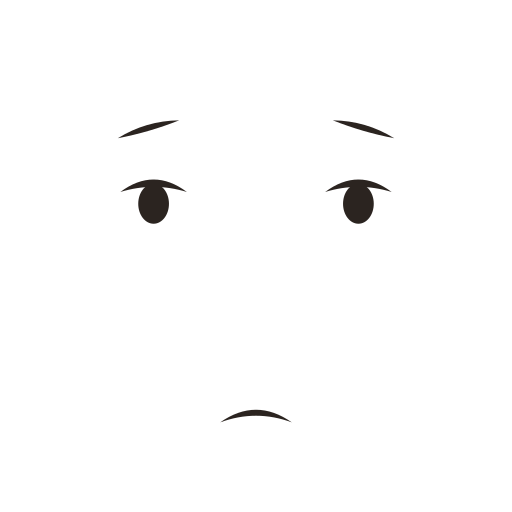
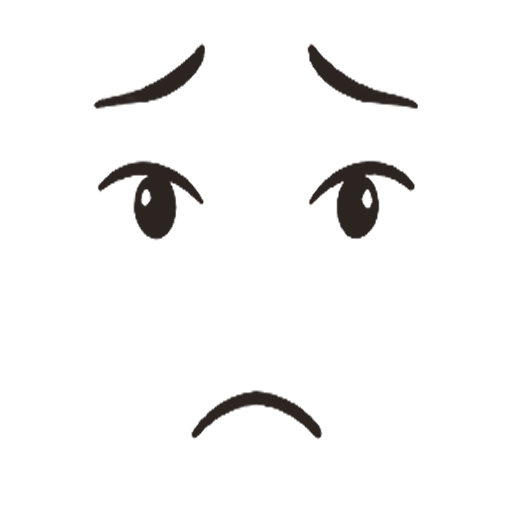
feat(figures): face decals from a Figma gpt-image-2.5 sheet (History Lines ink), cut + aligned to the projector grid by faces_from_sheet.py; hand-drawn SVG generator removed

diff --git a/engine-mvp/src/figures/faces_from_sheet.py b/engine-mvp/src/figures/faces_from_sheet.py
@@ -1,0 +1,62 @@
+"""Cut the 8 expression decals from the generated face sheet (Figma generate_image, gpt-image-2.5-sunburst,
+4 x 2 cells on white; the sheet lives in ~/BartsMedia/historyportal/topics/autonomous-lessons/s3-figures/faces/).
+
+Each cell: white keyed to alpha, the two pupils found as the darkest blobs, the mouth as the ink below them; then
+an affine fit puts the pupils at (30%, 38%) and (70%, 38%) and the mouth at (50%, 80%) of a 512 px square: the
+layout the head-bone projector expects (figure.ts FACE). Only alpha is used (the shader inks with its own colour).
+
+Run: python3 -I src/figures/faces_from_sheet.py <sheet.png> public/figures/faces/
+"""
+import sys
+
+import numpy as np
+from PIL import Image
+from scipy import ndimage
+
+NAMES = ["neutral", "happy", "worried", "surprised", "sad", "angry", "proud", "tired"]
+OUT = 512
+EYE_L, EYE_R, MOUTH = (0.30, 0.38), (0.70, 0.38), (0.50, 0.80)
+INK = (43, 36, 32)
+
+
+def cut(cell: np.ndarray) -> Image.Image:
+    grey = cell.mean(axis=2)
+    alpha = np.clip((238.0 - grey) / 150.0, 0, 1)
+    lab, n = ndimage.label(grey < 90)
+    sizes = ndimage.sum(np.ones_like(grey), lab, range(1, n + 1))
+    if n < 2:
+        raise SystemExit("cell without two pupils")
+    pupils = sorted(np.argsort(sizes)[-2:] + 1, key=lambda i: ndimage.center_of_mass(grey < 90, lab, i)[1])
+    (ly, lx), (ry, rx) = (ndimage.center_of_mass(grey < 90, lab, i) for i in pupils)
+    eye_y = (ly + ry) / 2
+    below = alpha.copy()
+    below[: int(eye_y + 0.22 * (rx - lx) + 10)] = 0  # skip the lower lids
+    ys, xs = np.nonzero(below > 0.3)
+    if len(ys) == 0:
+        raise SystemExit("cell without a mouth")
+    my = ys.mean()
+    # source -> target: x by the eye distance, y by the eye-to-mouth distance
+    sx = (EYE_R[0] - EYE_L[0]) * OUT / (rx - lx)
+    sy = (MOUTH[1] - EYE_L[1]) * OUT / (my - eye_y)
+    cx = (lx + rx) / 2
+    # PIL affine maps OUTPUT -> INPUT: x_in = (x_out - X0) / sx + cx, y_in = (y_out - Y0) / sy + eye_y
+    x0, y0 = 0.5 * OUT, EYE_L[1] * OUT
+    a = Image.fromarray((alpha * 255).astype(np.uint8))
+    a = a.transform((OUT, OUT), Image.AFFINE, (1 / sx, 0, cx - x0 / sx, 0, 1 / sy, eye_y - y0 / sy), resample=Image.BICUBIC)
+    out = Image.new("RGBA", (OUT, OUT), INK + (0,))
+    out.putalpha(a)
+    return out
+
+
+def main(sheet: str, out_dir: str) -> None:
+    im = np.asarray(Image.open(sheet).convert("RGB")).astype(np.float32)
+    h, w = im.shape[:2]
+    cw, ch = w // 4, h // 2
+    for i, name in enumerate(NAMES):
+        r, c = divmod(i, 4)
+        cut(im[r * ch:(r + 1) * ch, c * cw:(c + 1) * cw]).save(f"{out_dir.rstrip('/')}/{name}.png")
+        print("wrote", name)
+
+
+if __name__ == "__main__":
+    main(sys.argv[1], sys.argv[2])

diff --git a/engine-mvp/README.md b/engine-mvp/README.md
@@ -97,7 +97,8 @@ prop.parent = fig.hold   // lesson `holds` (a pot, a basket): a node between the
   coat dye hip to knee over leg wraps; breeches = stockings below the knee), `collar` (white falling collar within
   `BANDS.collarRadius` of the neck joint), `belt` (a band at the coat's hem). `figureRecipe` picks them by era. The stage look's pencil pass adds its
   line on top. Every number is a knob in `TOON` / `FACE` / `POSES`.
-- **Face**: the expression PNG (`public/figures/faces/`, drawn by `faces.mjs`, tapered ink strokes) is projected from
+- **Face**: the expression PNG (`public/figures/faces/`: a gpt-image-2.5 sheet made in Figma, cut and aligned by
+  `faces_from_sheet.py`; the sheet is in BartsMedia `s3-figures/faces/`) is projected from
   a box riding the head bone onto skin and eyeballs; no contour ink in the face's middle.
 - **Poses** (`pose.ts`): never Euler offsets. Each limb is AIMED at a direction in the character's own frame
   (forward from the feet, left from the shoulders), in rig space (below the glTF mirror). `checkPose` = knee never
